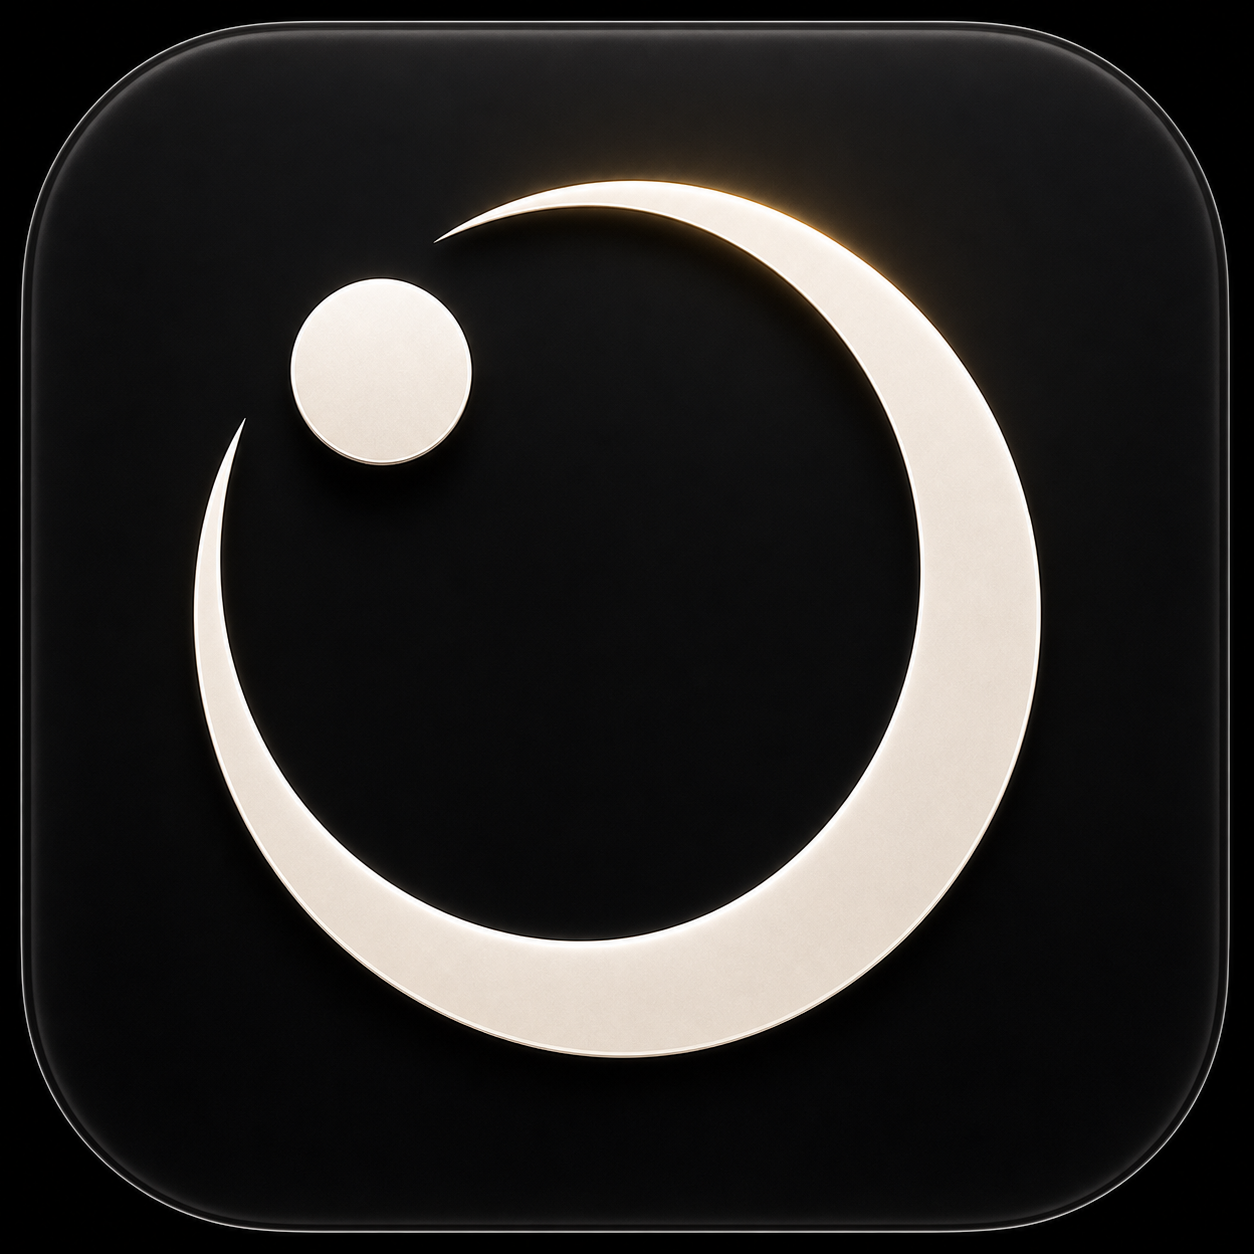
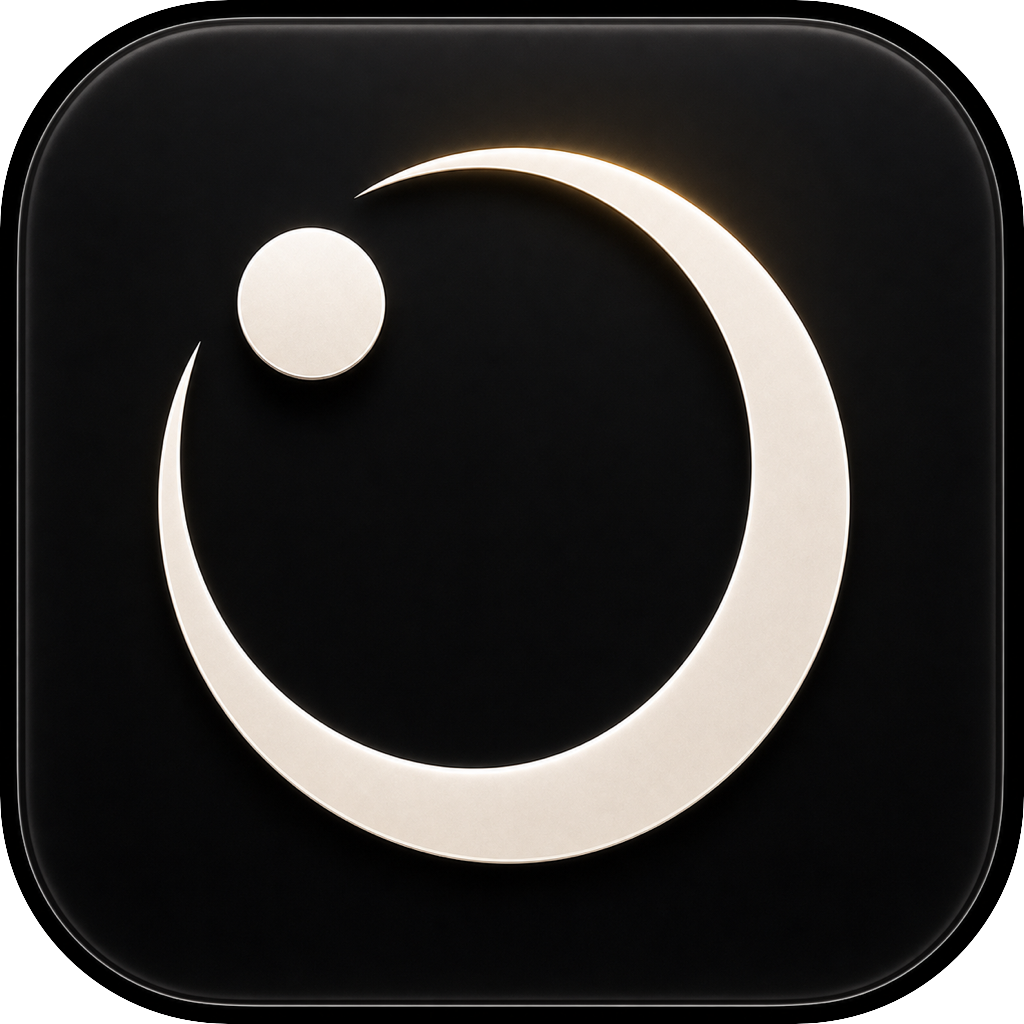
fix: stabilize packaged kentang services

diff --git a/Horosa-Web/astrostudyui/src/integrations/kentang/__tests__/serviceRoot.test.js b/Horosa-Web/astrostudyui/src/integrations/kentang/__tests__/serviceRoot.test.js
@@ -49,6 +49,15 @@ describe('kentang service root isolation', ()=>{
 		expect(serviceRoot.buildKentangEndpoint('cetian', 'pan')).toBe('http://127.0.0.1:8898/cetian/pan');
 	});
 
+	test('uses packaged desktop chart service for all kentang routes', ()=>{
+		const serviceRoot = loadServiceRoot(
+			'http://127.0.0.1:38991/index.html?srv=http%3A%2F%2F127.0.0.1%3A63968&chartSrv=http%3A%2F%2F127.0.0.1%3A63967'
+		);
+		expect(serviceRoot.buildKentangEndpoint('taiyi', 'pan')).toBe('http://127.0.0.1:63967/taiyi/pan');
+		expect(serviceRoot.buildKentangEndpoint('jinkou', 'pan')).toBe('http://127.0.0.1:63967/jinkou/pan');
+		expect(serviceRoot.buildKentangEndpoint('qizhengkin', 'pan')).toBe('http://127.0.0.1:63967/qizhengkin/pan');
+	});
+
 	test('derives the local kentang port from the primary local server root', ()=>{
 		const serviceRoot = loadServiceRoot(
 			'http://127.0.0.1:3001/?srv=http%3A%2F%2F127.0.0.1%3A9999'

diff --git a/Horosa-Web/astrostudyui/src/integrations/kentang/serviceRoot.js b/Horosa-Web/astrostudyui/src/integrations/kentang/serviceRoot.js
@@ -105,7 +105,7 @@ export const KENTANG_SERVICE_CONFIG = {
 	},
 };
 
-const COMMON_QUERY_KEYS = ['kentangSrv', 'kinSrv'];
+const COMMON_QUERY_KEYS = ['kentangSrv', 'chartSrv', 'kinSrv'];
 
 export function isValidHttpUrl(value){
 	return !!(value && /^https?:\/\/.+/i.test(`${value}`));

diff --git a/Horosa_Desktop_Installer/scripts/verify_kentang_runtime_endpoints.py b/Horosa_Desktop_Installer/scripts/verify_kentang_runtime_endpoints.py
@@ -1,0 +1,105 @@
+#!/usr/bin/env python3
+"""Smoke-test every bundled kentang/kin runtime endpoint."""
+
+from __future__ import annotations
+
+import argparse
+import json
+import sys
+import urllib.error
+import urllib.request
+
+
+ENDPOINTS = [
+    "taiyi",
+    "jinkou",
+    "qimen",
+    "wangji",
+    "wuzhao",
+    "taixuan",
+    "jingjue",
+    "shenyishu",
+    "shaozi",
+    "tieban",
+    "fendjing",
+    "beiji",
+    "nanji",
+    "chunzi",
+    "xianqin",
+    "cetian",
+    "qizhengkin",
+]
+
+SMOKE_PAYLOAD = {
+    "year": 2026,
+    "month": 5,
+    "day": 24,
+    "hour": 9,
+    "minute": 30,
+    "date": "2026/05/24",
+    "time": "09:30:00",
+    "zone": "+08:00",
+    "timezone": 8,
+    "lat": "31n14",
+    "lon": "121e28",
+    "gpsLat": 31.2304,
+    "gpsLon": 121.4737,
+    "pos": "上海",
+    "location": "上海",
+    "locationName": "上海",
+    "gender": "male",
+    "sex": "男",
+    "question": "测试",
+    "seed": 123456,
+    "style": 3,
+    "tn": 0,
+    "method": "auto",
+}
+
+
+def post_json(url: str, payload: dict, timeout: float) -> tuple[int, dict]:
+    data = json.dumps(payload, ensure_ascii=False).encode("utf-8")
+    request = urllib.request.Request(
+        url,
+        data=data,
+        headers={"Content-Type": "application/json"},
+        method="POST",
+    )
+    with urllib.request.urlopen(request, timeout=timeout) as response:
+        body = response.read().decode("utf-8", "replace")
+        return response.status, json.loads(body)
+
+
+def main() -> int:
+    parser = argparse.ArgumentParser()
+    parser.add_argument("--root", required=True, help="Chart service root, for example http://127.0.0.1:8899")
+    parser.add_argument("--timeout", type=float, default=60)
+    args = parser.parse_args()
+
+    root = args.root.rstrip("/")
+    failures = []
+    for endpoint in ENDPOINTS:
+        url = f"{root}/{endpoint}/pan"
+        try:
+            status, payload = post_json(url, SMOKE_PAYLOAD, args.timeout)
+            result_code = payload.get("ResultCode")
+            result = payload.get("Result")
+            ok = status < 500 and result_code in (0, "0") and result is not None
+        except (urllib.error.URLError, TimeoutError, json.JSONDecodeError, OSError) as exc:
+            failures.append((endpoint, repr(exc)))
+            print(f"kentang endpoint FAIL {endpoint}: {exc}", file=sys.stderr)
+            continue
+
+        result_type = type(result).__name__
+        print(f"kentang endpoint OK {endpoint}: http={status} resultCode={result_code} resultType={result_type}")
+        if not ok:
+            failures.append((endpoint, json.dumps(payload, ensure_ascii=False)[:500]))
+
+    if failures:
+        print("kentang endpoint smoke failed:", failures[:5], file=sys.stderr)
+        return 1
+    return 0
+
+
+if __name__ == "__main__":
+    raise SystemExit(main())

diff --git a/scripts/browser_horosa_aianalysis_check.py b/scripts/browser_horosa_aianalysis_check.py
@@ -29,6 +29,7 @@ ROOT = Path(__file__).resolve().parents[1]
 RUNTIME_DIR = ROOT / "runtime"
 JSON_PATH = RUNTIME_DIR / "browser_horosa_aianalysis_check.json"
 SCREENSHOT_PATH = RUNTIME_DIR / "browser_horosa_aianalysis_check.png"
+CHART_FIXTURE_CACHE = None
 
 
 def build_base_url(mock_server_root: str) -> str:
@@ -64,6 +65,8 @@ class MockProxyHandler(BaseHTTPRequestHandler):
         self.end_headers()
 
     def do_GET(self):
+        if self._send_app_bootstrap_fixture():
+            return
         self._proxy_request()
 
     def do_POST(self):
@@ -128,6 +131,8 @@ class MockProxyHandler(BaseHTTPRequestHandler):
                     },
                 }
             )
+        if self._send_app_bootstrap_fixture():
+            return
         self._proxy_request()
 
     def _read_body(self) -> bytes:
@@ -169,6 +174,22 @@ class MockProxyHandler(BaseHTTPRequestHandler):
         except BrokenPipeError:
             return
 
+    def _send_app_bootstrap_fixture(self) -> bool:
+        """Keep the AIAnalysis e2e isolated from unrelated startup probes."""
+        if self.path.startswith("/common/time"):
+            self._read_body()
+            return self._send_json({"ResultCode": 0, "Result": {"time": int(time.time() * 1000)}}) or True
+        if self.path.startswith("/user/check"):
+            self._read_body()
+            return self._send_json({"ResultCode": 0, "Result": {"registered": True, "offline": True}}) or True
+        if self.path.startswith("/ziwei/rules"):
+            self._read_body()
+            return self._send_json({"ResultCode": 0, "Result": {"rules": []}}) or True
+        if self.path == "/chart" or self.path.startswith("/chart?"):
+            self._read_body()
+            return self._send_json({"ResultCode": 0, "Result": build_chart_fixture()}) or True
+        return False
+
     def _proxy_request(self):
         body = self._read_body()
         target = f"{self.backend_root}{self.path}"
@@ -199,6 +220,68 @@ class MockProxyHandler(BaseHTTPRequestHandler):
 
 class QuietThreadingHTTPServer(ThreadingHTTPServer):
     daemon_threads = True
+
+
+def build_chart_fixture() -> dict:
+    global CHART_FIXTURE_CACHE
+    if CHART_FIXTURE_CACHE is not None:
+        return CHART_FIXTURE_CACHE
+
+    astropy_root = ROOT / "Horosa-Web" / "astropy"
+    flatlib_root = ROOT / "Horosa-Web" / "flatlib-ctrad2"
+    for item in (str(flatlib_root), str(astropy_root)):
+        if item not in sys.path:
+            sys.path.insert(0, item)
+
+    import jsonpickle  # type: ignore
+    from astrostudy.guostarsect.guostarsect import GuoStarSect  # type: ignore
+    from astrostudy.helper import getPredictivesObj  # type: ignore
+    from astrostudy.perchart import PerChart  # type: ignore
+    from websrv.webchartsrv import WebChartSrv  # type: ignore
+
+    data = dict(WebChartSrv.PD_WARMUP_SAMPLE)
+    perchart = PerChart(data)
+    guostar = GuoStarSect(perchart)
+    fixture = {
+        "params": {
+            "birth": perchart.getBirthStr(),
+            "ad": -1 if perchart.isBC else 1,
+            "lat": data["lat"],
+            "lon": data["lon"],
+            "hsys": data["hsys"],
+            "zone": data["zone"],
+            "tradition": perchart.tradition,
+            "zodiacal": perchart.zodiacal,
+            "doubingSu28": perchart.su28Mode,
+            "showPdBounds": data.get("showPdBounds", 1),
+            "pdtype": perchart.pdtype,
+            "pdMethod": perchart.pdMethod,
+            "pdTimeKey": perchart.pdTimeKey,
+            "pdSyncRev": WebChartSrv.PD_SYNC_REV,
+        },
+        "chart": perchart.getChartObj(),
+        "receptions": perchart.getReceptions(),
+        "mutuals": perchart.getMutuals(),
+        "declParallel": perchart.getParallel(),
+        "aspects": {
+            "normalAsp": perchart.getAspects(),
+            "immediateAsp": perchart.getImmediateAspects(),
+            "signAsp": perchart.getSignAspects(),
+        },
+        "lots": perchart.getPars(perchart.chart),
+        "surround": {
+            "planets": perchart.surroundPlanets(),
+            "attacks": perchart.surroundAttacks(),
+            "houses": perchart.surroundHouses(),
+        },
+        "guoStarSect": {"houses": guostar.allTerm()},
+    }
+    predictives = getPredictivesObj(data, perchart)
+    if predictives is not None:
+        fixture["predictives"] = predictives
+
+    CHART_FIXTURE_CACHE = json.loads(jsonpickle.encode(fixture, unpicklable=False))
+    return CHART_FIXTURE_CACHE
 
 
 def click_text(page, text: str, exact: bool = True, timeout: int = 15000):

diff --git a/Horosa_Desktop_Installer/src-tauri/src/main.rs b/Horosa_Desktop_Installer/src-tauri/src/main.rs
@@ -206,6 +206,7 @@ struct RuntimePaths {
 struct RuntimeSession {
     paths: RuntimePaths,
     backend_port: u16,
+    chart_port: u16,
     web_port: u16,
 }
 
@@ -1717,7 +1718,7 @@ fn open_main_window(app: &AppHandle) -> Result<()> {
             if let Some(session) = slot.as_ref() {
                 emit_ready(
                     &window,
-                    &frontend_url(session.web_port, session.backend_port),
+                    &frontend_url(session.web_port, session.backend_port, session.chart_port),
                 );
             }
         }
@@ -4023,12 +4024,15 @@ fn start_runtime(
     Ok(())
 }
 
-fn frontend_url(web_port: u16, backend_port: u16) -> String {
-    let root = format!("http://127.0.0.1:{}", backend_port);
+fn frontend_url(web_port: u16, backend_port: u16, chart_port: u16) -> String {
+    let backend_root = format!("http://127.0.0.1:{}", backend_port);
+    let chart_root = format!("http://127.0.0.1:{}", chart_port);
     format!(
-        "http://127.0.0.1:{}/index.html?srv={}&v={}",
+        "http://127.0.0.1:{}/index.html?srv={}&chartSrv={}&kentangSrv={}&v={}",
         web_port,
-        urlencoding::encode(&root),
+        urlencoding::encode(&backend_root),
+        urlencoding::encode(&chart_root),
+        urlencoding::encode(&chart_root),
         unix_ts()
     )
 }
@@ -4687,7 +4691,10 @@ fn check_for_updates(app: AppHandle) -> Result<()> {
                             *slot = Some(session.clone());
                         }
                     }
-                    emit_ready(&win, &frontend_url(session.web_port, session.backend_port));
+                    emit_ready(
+                        &win,
+                        &frontend_url(session.web_port, session.backend_port, session.chart_port),
+                    );
                 }
                 Err(err) => {
                     emit_launcher_error(&win, &build_launcher_error_payload(&app_handle, &err))
@@ -4710,7 +4717,10 @@ fn trigger_reinstall(app: AppHandle) {
                             *slot = Some(session.clone());
                         }
                     }
-                    emit_ready(&win, &frontend_url(session.web_port, session.backend_port));
+                    emit_ready(
+                        &win,
+                        &frontend_url(session.web_port, session.backend_port, session.chart_port),
+                    );
                 }
                 Err(err) => {
                     emit_launcher_error(&win, &build_launcher_error_payload(&app_handle, &err))
@@ -4850,6 +4860,7 @@ fn runtime_bootstrap(
     Ok(RuntimeSession {
         paths,
         backend_port,
+        chart_port,
         web_port,
     })
 }
@@ -4898,7 +4909,11 @@ fn main() {
                         }
                         emit_ready(
                             &window,
-                            &frontend_url(session.web_port, session.backend_port),
+                            &frontend_url(
+                                session.web_port,
+                                session.backend_port,
+                                session.chart_port,
+                            ),
                         );
                         show_post_update_notice_if_needed(&app_handle);
                     }
@@ -5100,6 +5115,15 @@ mod tests {
         };
 
         assert!(should_launch_main_window_maximized(&state));
+    }
+
+    #[test]
+    fn frontend_url_injects_chart_service_for_packaged_kentang_routes() {
+        let url = frontend_url(38991, 63968, 63967);
+
+        assert!(url.contains("srv=http%3A%2F%2F127.0.0.1%3A63968"));
+        assert!(url.contains("chartSrv=http%3A%2F%2F127.0.0.1%3A63967"));
+        assert!(url.contains("kentangSrv=http%3A%2F%2F127.0.0.1%3A63967"));
     }
 
     fn temp_test_dir(name: &str) -> PathBuf {

diff --git a/Horosa-Web/flatlib-ctrad2/flatlib/ephem/swe.py b/Horosa-Web/flatlib-ctrad2/flatlib/ephem/swe.py
@@ -98,6 +98,7 @@ def clearSiderealContext():
 
 
 def applySiderealMode():
+    ensureEphePath()
     mode = getattr(_SIDEREAL_CONTEXT, 'mode', None)
     if mode is None:
         swisseph.set_sid_mode(SEDEFAULT_SIDM__MODE)
@@ -182,6 +183,14 @@ def setPath(path):
         SEACTIVE_JPL_FILE = jpl_file
 
 
+def ensureEphePath():
+    """Restore flatlib's Swiss Ephemeris path after shared-process callers change it."""
+    if SEACTIVE_PATH:
+        swisseph.set_ephe_path(SEACTIVE_PATH)
+    if SEACTIVE_JPL_FILE:
+        swisseph.set_jpl_file(SEACTIVE_JPL_FILE)
+
+
 def getRuntimeConfig():
     return {
         'path': SEACTIVE_PATH,
@@ -228,6 +237,7 @@ def sweNextTransit(obj, jd, lat, lon, flag):
     
     """
     sweObj = SWE_OBJECTS[obj]
+    ensureEphePath()
     flag = swisseph.CALC_RISE if flag == 'RISE' else swisseph.CALC_SET
     trans = swisseph.rise_trans(jd, sweObj, lon, lat, 0, 0, 0, flag)
     return trans[1][0]
@@ -362,6 +372,7 @@ def sweFixedStarSu28(star, jd, flags=SEDEFAULT_FLAG):
 def solarEclipseGlobal(jd, backward):
     """ Returns the jd details of previous or next global solar eclipse. """
 
+    ensureEphePath()
     sweList = swisseph.sol_eclipse_when_glob(jd, backward=backward)
     return {
         'maximum': sweList[1][0],
@@ -376,6 +387,7 @@ def solarEclipseGlobal(jd, backward):
 def lunarEclipseGlobal(jd, backward):
     """ Returns the jd details of previous or next global lunar eclipse. """
 
+    ensureEphePath()
     sweList = swisseph.lun_eclipse_when(jd, backward=backward)
     return {
         'maximum': sweList[1][0],